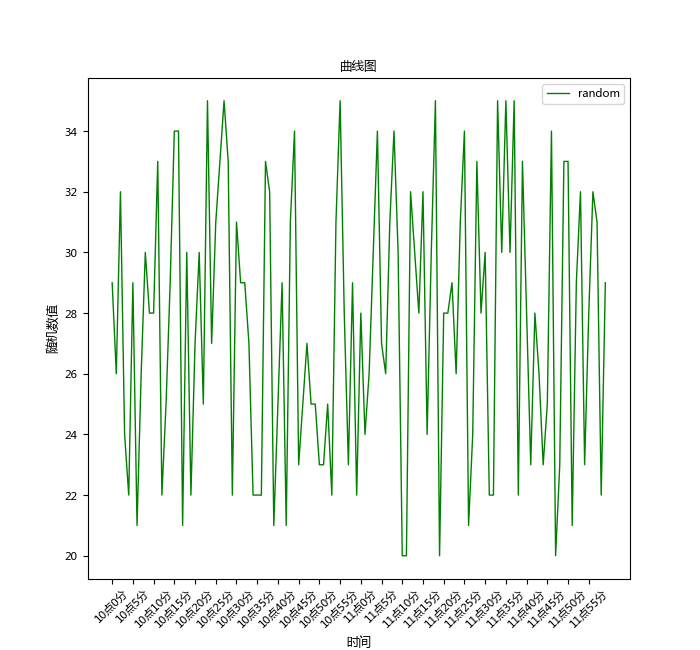
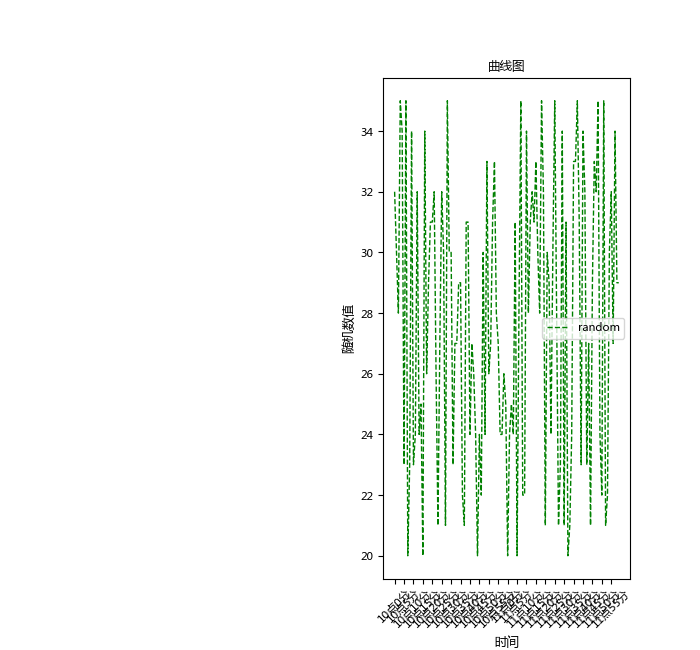
pccode21

diff --git a/src/data/matplotlib_plot.py b/src/data/matplotlib_plot.py
@@ -18,6 +18,7 @@ matplotlib.rc('font', **font)
 # 当刻度太密集的时候使用列表的步长（间隔取值）来解决，matplotlib会帮助我们对应
 # plt.xticks(range(1, 25))
 # plt.xlim(1, 25)  # 设置x范围
+# plt.ylim(1, 120) # 设置y范围
 # x_ticks = np.arange(1, 13, 1)  # 设置x刻度
 # plt.xticks(x_ticks)
 # _xticks_labels = [i/2 for i in range(4, 49)]  # 设置x间隔为0.5
@@ -28,7 +29,10 @@ a = [random.randint(20, 35) for i in range(120)]
 y = a
 random.seed(10)
 plt.rcParams['figure.figsize'] = (7.0, 6.5)  # 图片像素
-plt.plot(x, y, linewidth=1, color='green', label='random')  # plot是曲线图，linewidth指定线条粗细
+# plt.subplot(1, 2, 1)  #建立一个高为1，宽为2的subplot网格，激活第一个网格
+plt.plot(x, y, linewidth=1, color='green', label='random', linestyle='--')
+# plot是曲线图，linewidth指定线条粗细
+# 添加虚线样式：linestyle，linestyle取值：':'、'--'、'-.'、'-'
 plt.title('曲线图', fontsize=9)  # 设置标题
 plt.xlabel('时间', fontsize=9)  # 设置x轴标签说明
 plt.ylabel('随机数值', fontsize=9)  # 设置y轴标签说明

diff --git a/src/data/matplotlib_scatter.py b/src/data/matplotlib_scatter.py
@@ -11,7 +11,9 @@ n = 50  # 50个随机数
 x = np.random.normal(0, 1, n)  # 平均值为0，方差为1
 y = np.random.normal(0, 1, n)
 # 散点
-plt.scatter(x, y, linewidth=2, color='blue', label='scatter', alpha=0.5, marker='*')  # scatter是散点图
+plt.scatter(x, y, linewidth=2, color='blue', label='scatter', alpha=0.5, marker='^')
+# scatter是散点图
+# alpha：透明属性，默认为1，取值范围大于等于0小于等于1，值越小透明度越高
 plt.legend()  # 添加图例
 # 设置标题
 plt.title("散点图", fontsize=12)

diff --git a/src/data/marker.md b/src/data/marker.md
@@ -1,0 +1,4 @@
+marker取值表
+----------
+默认选‘o’ ；marker取值表如下： <br>
+![](https://github.com/pccode21/PythonLearn/blob/master/src/data/images/marker.png) <br>
